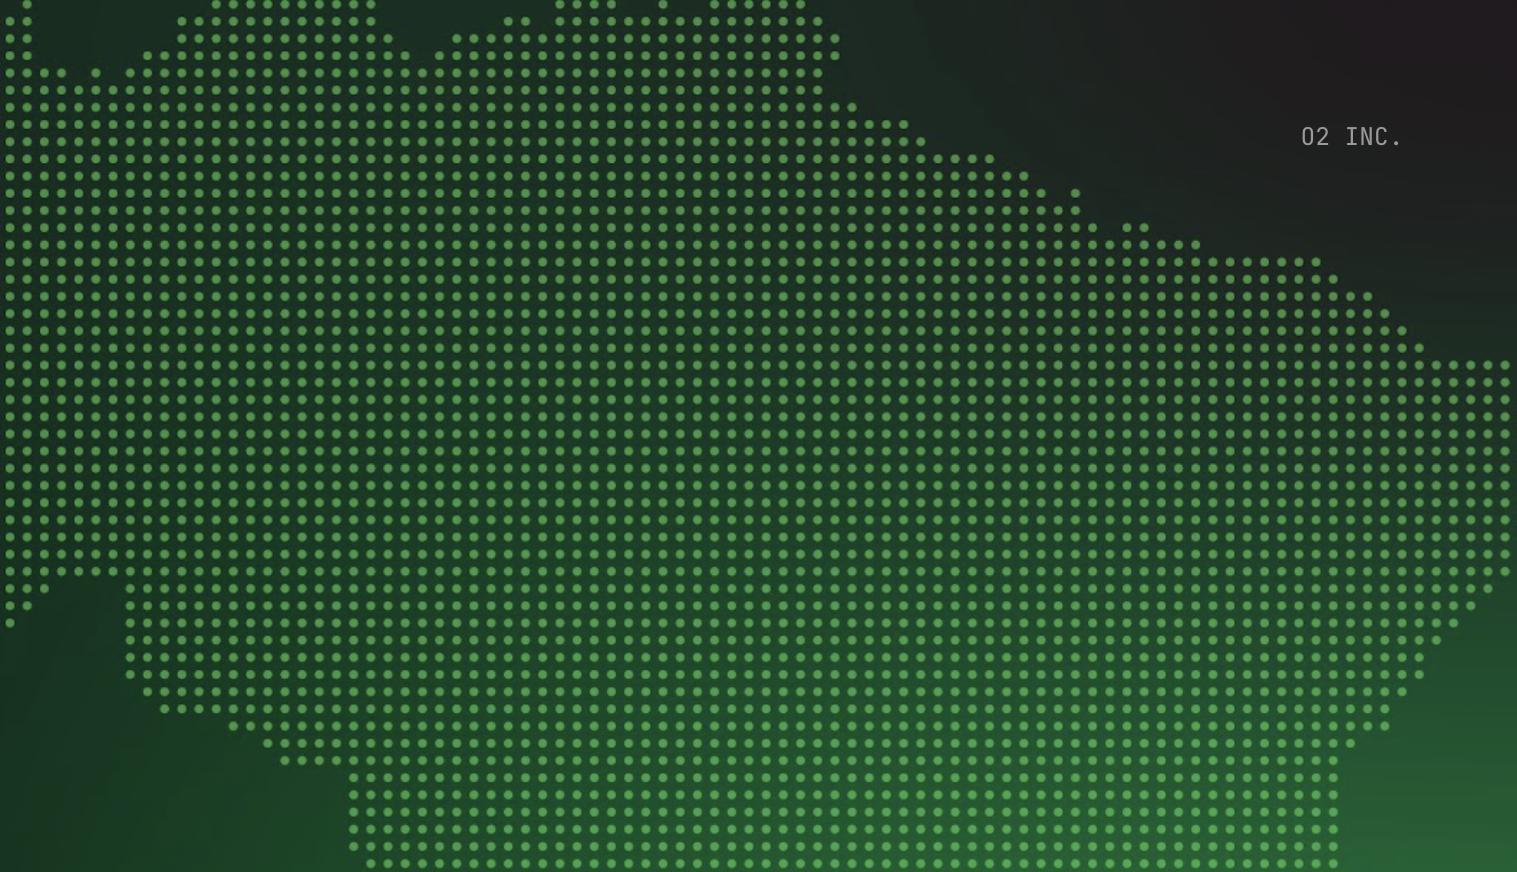
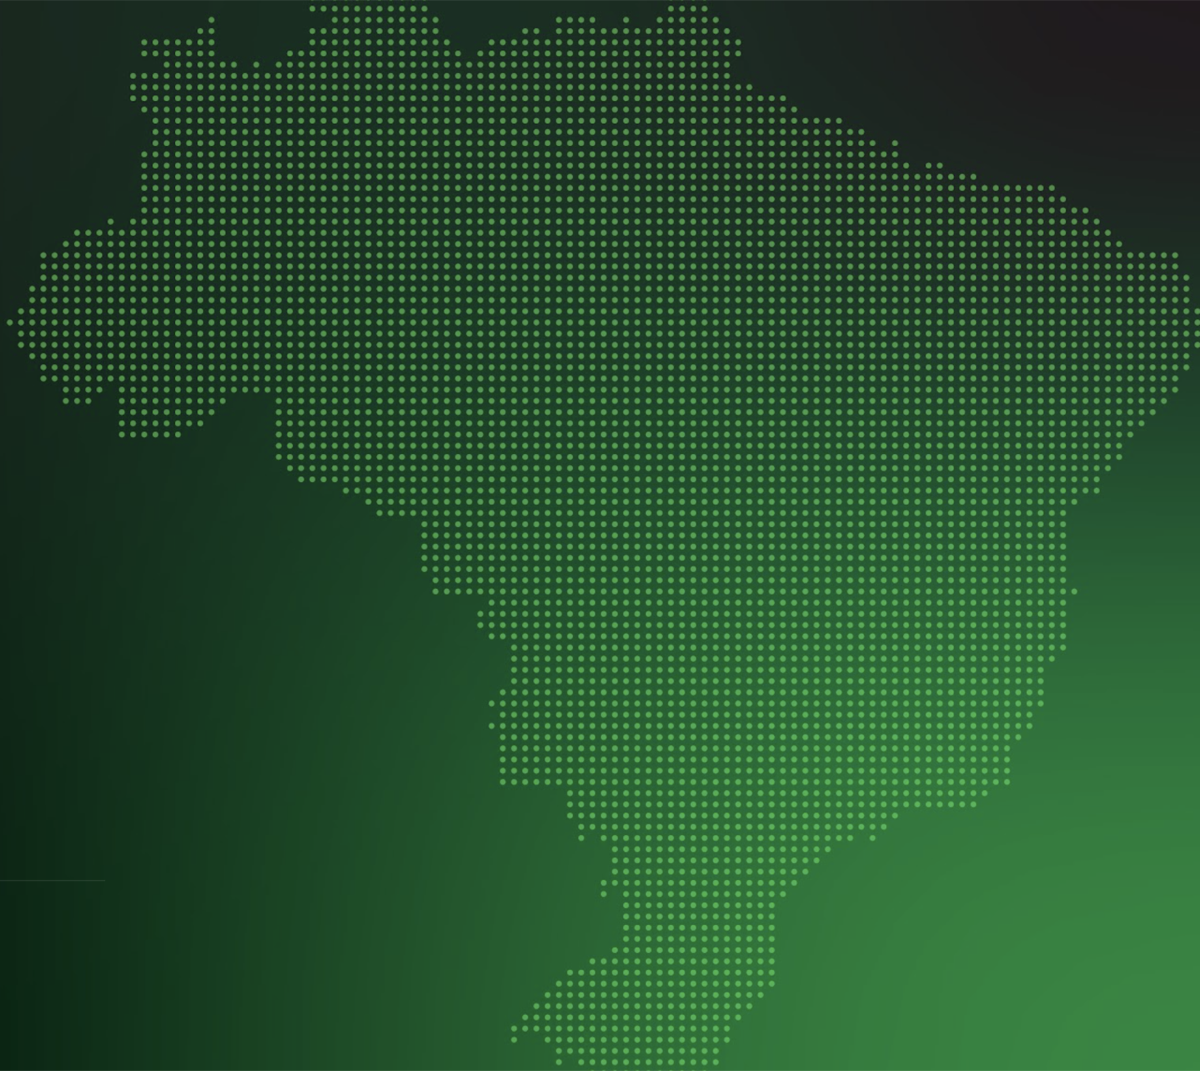
fix: replace map image with clean green dotted Brazil map
New image without text artifacts. Adjusted object-position and
overlay for clean blend with dark background.

diff --git a/src/routes/index.tsx b/src/routes/index.tsx
@@ -267,13 +267,13 @@ function LandingPage() {
             <div className="w-16 h-px bg-border mt-6 mb-4" />
             <p className="text-sm text-muted-foreground">Temos franquias espalhadas por todo o país.</p>
           </AnimatedSection>
-          <div className="relative h-64 md:h-auto overflow-hidden">
+          <div className="relative h-72 md:h-auto overflow-hidden">
             <img
               src="/mapa-brasil.png"
               alt="Mapa de atuação O2 no Brasil"
-              className="absolute inset-0 w-full h-full object-cover object-center scale-110"
+              className="absolute inset-0 w-full h-full object-cover object-[50%_30%]"
             />
-            <div className="absolute inset-0 bg-gradient-to-r from-background via-background/50 to-transparent" />
+            <div className="absolute inset-0 bg-gradient-to-r from-background via-background/40 to-transparent" />
           </div>
         </div>
       </section>
